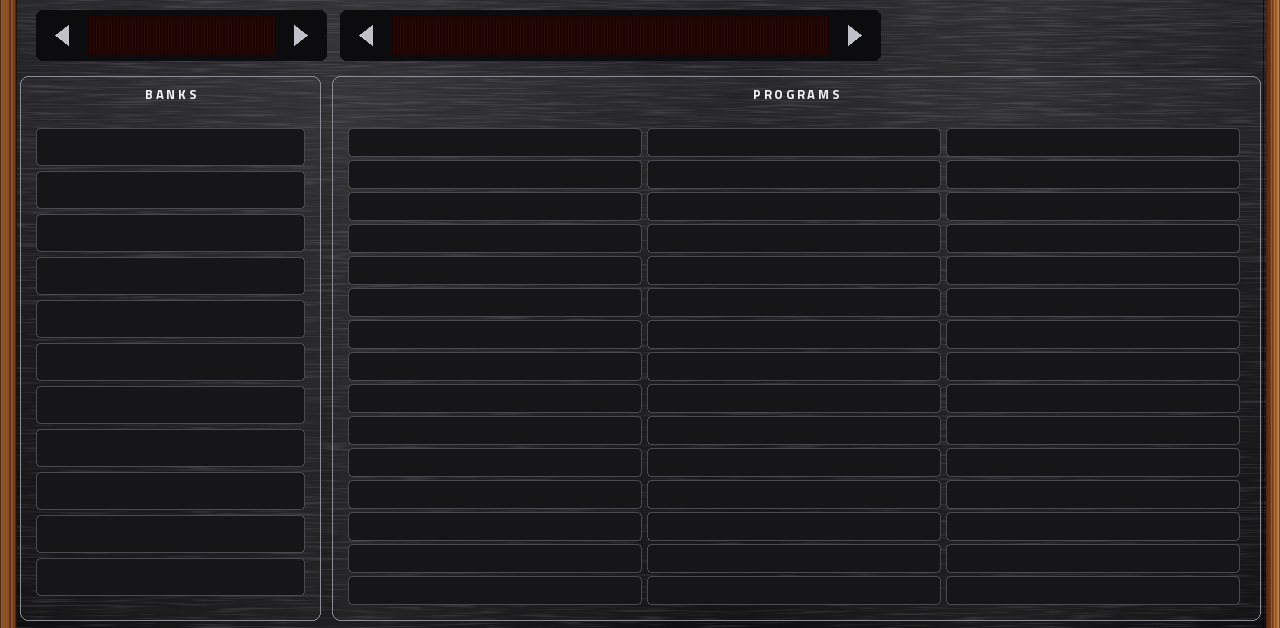
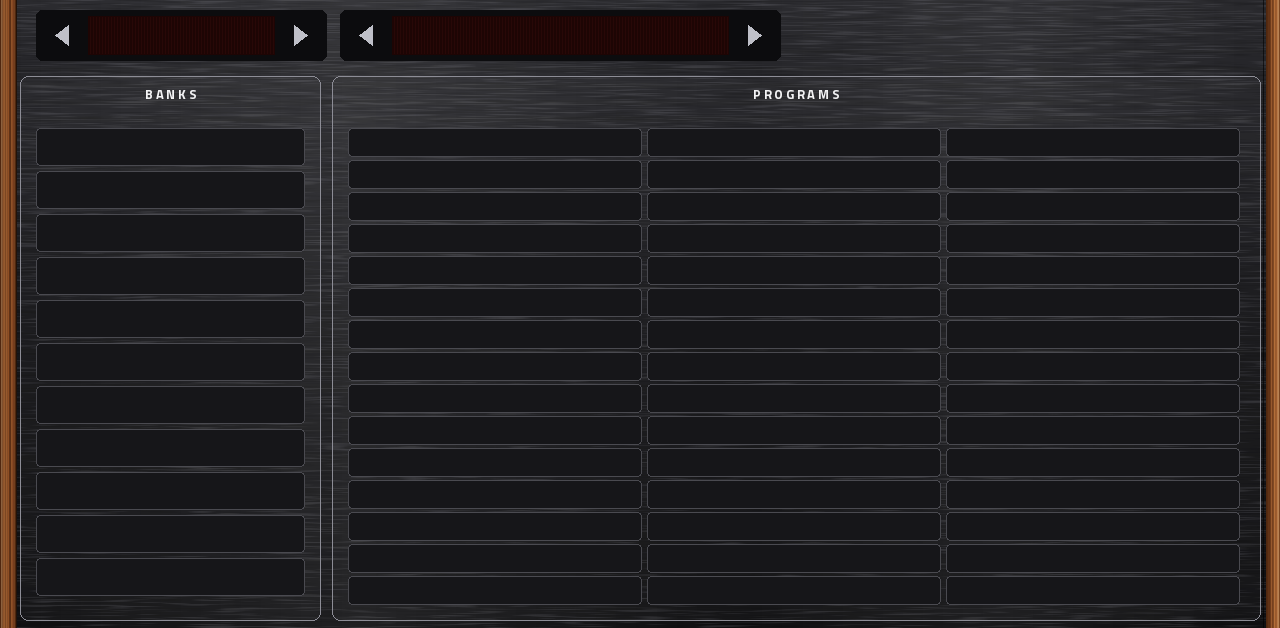
RANDOM on the BANKS page: a random program from every loaded bank
Claude-Session: https://claude.ai/code/session_01V7tb5w5dPsa6WFixuaniE5

Changed region(s): [[0.5625, 0.0, 0.6875, 0.121]]

diff --git a/tests/host_test.cpp b/tests/host_test.cpp
@@ -114,7 +114,7 @@ int main(int argc, char** argv)
     a->dispatcher(a, effGetEffectName, 0, 0, name, 0);
     CHECK(a->uniqueID == (VstInt32)0x50667438, "uid Pft8 (%08x)", (unsigned)a->uniqueID);
     CHECK(!std::strcmp(name, P8_EXPECT_NAME), "name \"%s\"", name);
-    CHECK(a->numParams == 328, "328 params: 245 frozen keys + 37 1.x popup slots + favourite keys + naming keyboard (%d)", a->numParams);
+    CHECK(a->numParams == 329, "329 params: 245 frozen keys + 37 1.x popup slots + favourite keys + naming keyboard (%d)", a->numParams);
     CHECK(a->dispatcher(a, effGetVendorVersion, 0, 0, nullptr, 0) == 2001, "version 2001");
     {
         int bad = 0, i = 0;
@@ -268,6 +268,20 @@ int main(int argc, char** argv)
         settle(c);
         CHECK(eng(c, "state").compare(0, 4, "P8A ") == 0, "truncated MPC chunk / bad hex: no crash, still a valid program");
         (void)before;
+    }
+
+    std::printf("== random patch\n");
+    {
+        const int RND = idx("random_patch");
+        int seen[128] = {0}, distinct = 0, inRange = 1;
+        for (int i = 0; i < 12; i++)
+        {
+            a->setParameter(a, RND, 1.0f); settle(a); a->setParameter(a, RND, 0.0f); settle(a);
+            const int p = engi(a, "program");
+            if (p < 0 || p > 127) inRange = 0; else if (!seen[p]++) distinct++;
+        }
+        CHECK(inRange && distinct >= 6, "RANDOM picks varied programs in range (%d distinct of 12)", distinct);
+        CHECK(plainOf(a, RND) < 0.5f, "RANDOM drops back to 0");
     }
 
     std::printf("== favourites\n");

diff --git a/src/engine.c b/src/engine.c
@@ -10,6 +10,7 @@
 #include <stdlib.h>
 #include <string.h>
 #include <strings.h>
+#include <time.h>
 #include <sys/stat.h>
 #include "engine.h"
 #include "mpc_analog.h"
@@ -883,6 +884,18 @@ static void p8_set_param(void *h, const char *k, const char *val) {
     if (i >= 0) { set_patch_value(s, i, atoi(val)); return; }
     int x = atoi(val);
     if (!strcmp(k, "bank")) { if (x != s->cur_bank && x < s->nbanks) { load_bank(s, x); select_program(s, 0); } }
+    else if (!strcmp(k, "random_patch")) {   /* a random program from every loaded bank (the init bank only when it is the only one) */
+        if (x) {
+            uint32_t r = s->rng ^ (uint32_t)time(NULL) * 2654435761u ^ (uint32_t)clock();
+            r ^= r << 13; r ^= r >> 17; r ^= r << 5;
+            const int lo = s->nbanks > 1 ? 1 : 0;
+            const int b = lo + (int)((r >> 8) % (uint32_t)(s->nbanks - lo));
+            r ^= r << 13; r ^= r >> 17; r ^= r << 5;
+            s->rng = r;
+            load_bank(s, b);
+            select_program(s, (int)((r >> 8) % 128u));
+        }
+    }
     else if (!strcmp(k, "program")) { if (x != s->cur_prog) select_program(s, x); }
     else if (!strcmp(k, "browse_bank_index")) { if (x >= 0 && x < s->nbanks && x != s->browse_bank) { s->browse_bank = x; s->browse_page = 0; s->display_rev++; } }
     else if (!strcmp(k, "next_browse_bank") || !strcmp(k, "prev_browse_bank")) {

diff --git a/tools/skin_pages.py b/tools/skin_pages.py
@@ -201,9 +201,10 @@ def banks():
     words = ["Brass", "Pad", "Sync Lead", "Strings", "Bass", "Sweep", "Bell", "Poly", "Choir", "Pluck", "Organ", "Wind"]
     pg.items += [
         LCD(36, 10, 290, 50, "browse_bank_name", "1 Factory Bank 1", "prev_browse_bank", "next_browse_bank", "browse_bank_index"),
-        LCD(340, 10, 540, 50, "patch_name", "001 P5 Brass", "program_prev", "program_next", "program"),
+        LCD(340, 10, 440, 50, "patch_name", "001 P5 Brass", "program_prev", "program_next", "program"),
         KEYW("patch_page_prev", 920, 35, 44, 40, "<"), PAGETXT("patch_page_text", 978, 35, 56, "PAGE 1/3"),
         KEYW("patch_page_next", 1036, 35, 44, 40, ">"),
+        KEYW("random_patch", 836, 35, 96, 40, "RANDOM"),
         KEYW("fav_add", 1124, 35, 72, 40, "+ FAV"), KEYW("fav_del", 1206, 35, 72, 40, "- FAV"),
         TILES("bank_slot_", 11, 1, 11, 36, 128, 268, 37, 0, 43,
               ["1 Factory Bank 1", "2 Factory Bank 2", "3 Factory Bank 3", "4 Factory Bank 4", "5 Factory Bank 5", "6 User Sounds"]),

diff --git a/src/params_gen.h b/src/params_gen.h
@@ -376,8 +376,9 @@ static const PSpec g_pspecs[] = {
     {"kb_shift", "Key Shift", 0.0f, 1.0f, 0.0f, 4609, nullptr, 0, -1, 0.0f},
     {"kb_cancel", "Key Cancel", 0.0f, 1.0f, 0.0f, 4609, nullptr, 0, -1, 0.0f},
     {"kb_save", "Key Save", 0.0f, 1.0f, 0.0f, 4609, nullptr, 0, -1, 0.0f},
+    {"random_patch", "RANDOM", 0.0f, 1.0f, 0.0f, 513, nullptr, 0, -1, 0.0f},
 };
-static const int kNumParams = 328;
+static const int kNumParams = 329;
 static const int kNumEngineParams = 245;   // 0 .. this - 1 are the engine's keys
 static const int kUiParam = 245;
 static const int kFavAdd = 282, kFavDel = 283, kFavSlots = 64;

diff --git a/tools/gen_params.py b/tools/gen_params.py
@@ -84,7 +84,8 @@ row("fav_name", "Favourite Name", 0, 1023, 0, FL["kLocal"] | FL["kText"] | FL["k
 row("kb_open", "Keyboard", 0, 1, 0, FL["kLocal"] | FL["kUi"] | FL["kNoAuto"])
 for k, n in KB_KEYS:
     row(k, n, 0, 1, 0, FL["kLocal"] | FL["kMomentary"] | FL["kNoAuto"])
-NEW = 2 + 2 + len(KB_KEYS)
+row("random_patch", "RANDOM", 0, 1, 0, FL["kMomentary"] | FL["kNoAuto"])   # an engine verb: a random program from every loaded bank (BANKS page)
+NEW = 2 + 2 + len(KB_KEYS) + 1
 
 out += ["", "static const PSpec g_pspecs[] = {"] + rows + ["};",
         "static const int kNumParams = %d;" % (base + NEW),
